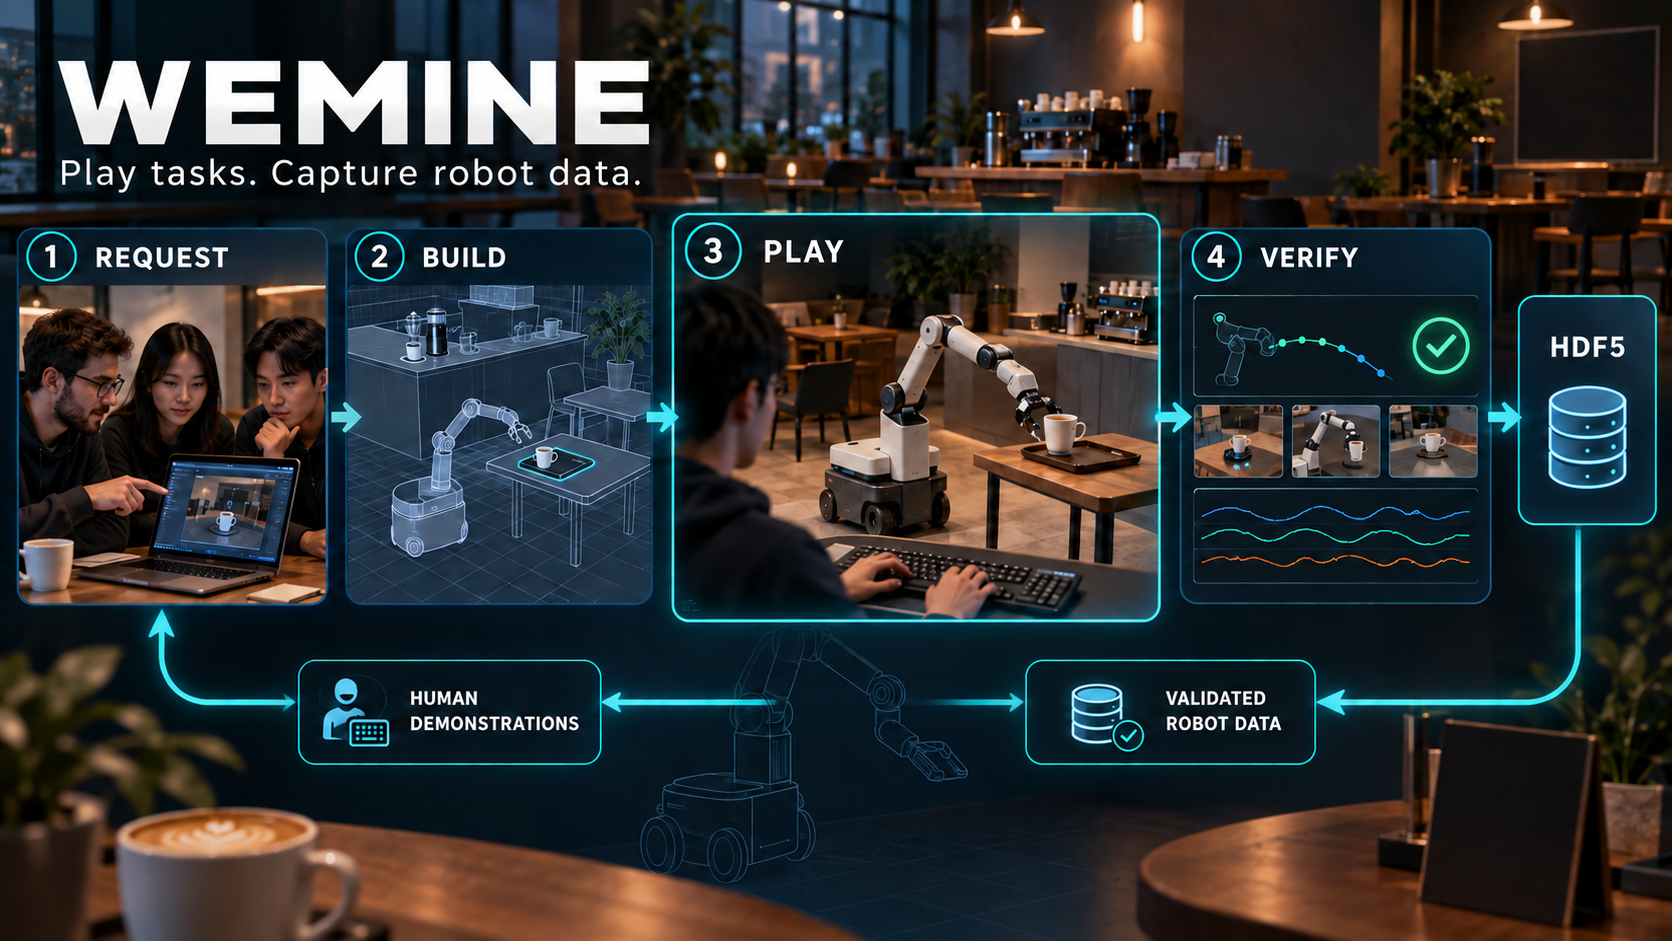
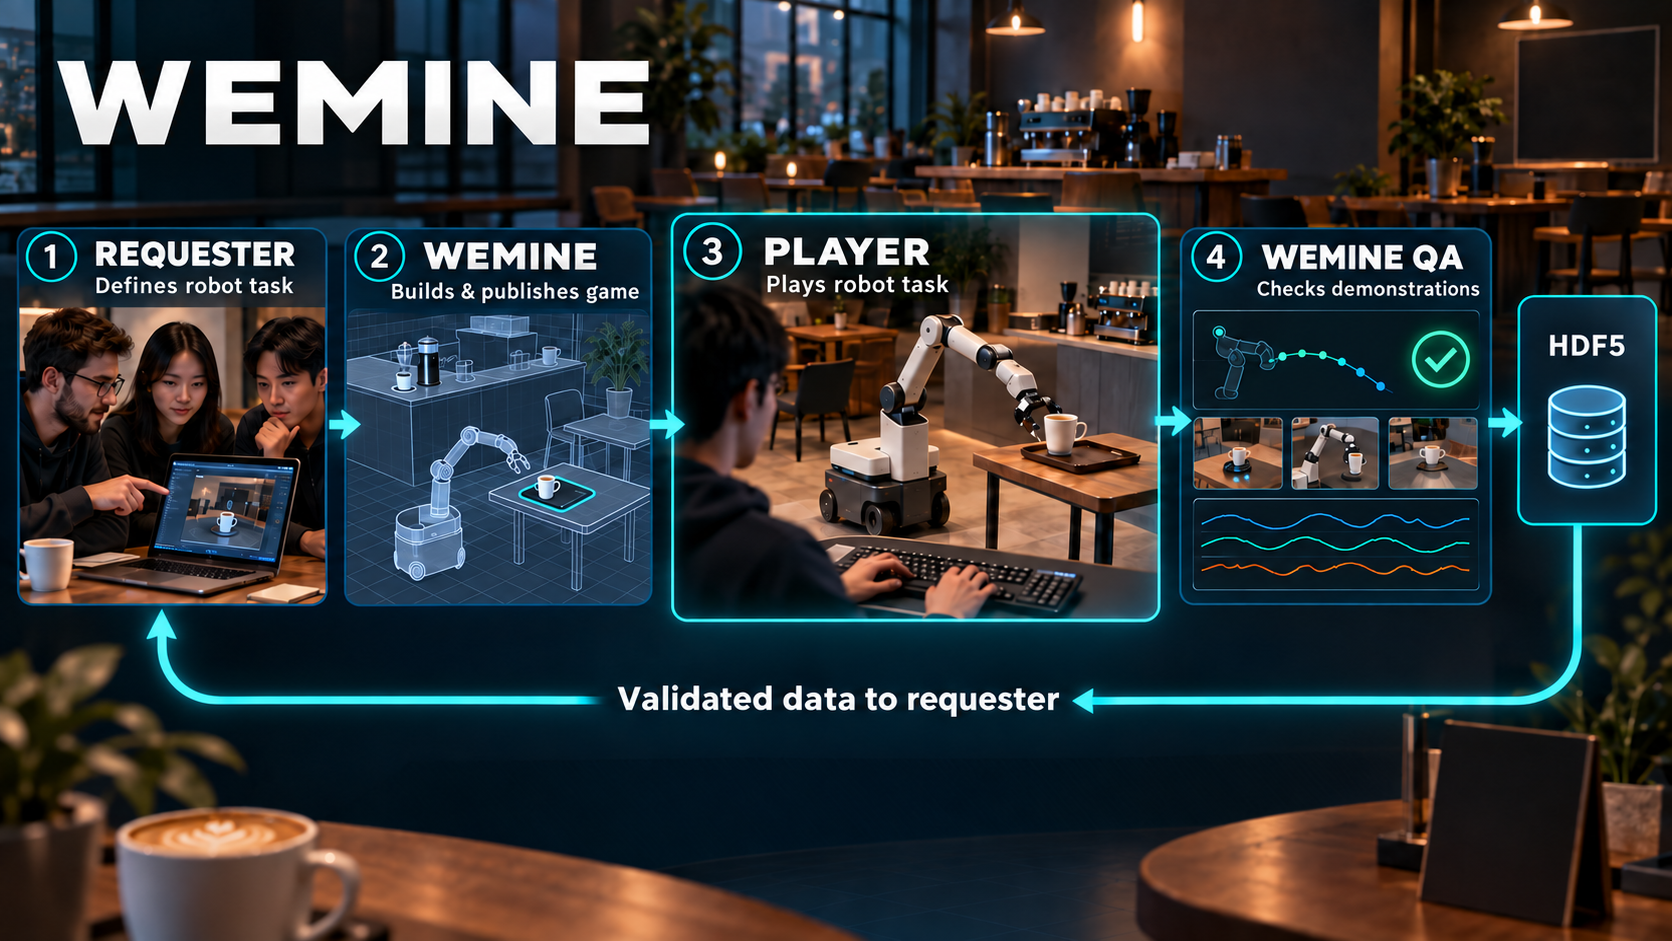
Clarify requester and player roles in WEMINE overview

diff --git a/README.md b/README.md
@@ -1,8 +1,8 @@
-![WEMINE: request a robot task, build a simulated game, play it, verify the demonstration, and deliver robot data](docs/assets/wemine-overview.png)
+![WEMINE connects two roles: a requester defines a robot task, WEMINE builds and publishes the game, a separate player performs it, and validated data returns to the requester](docs/assets/wemine-overview.png)
 
 # WEMINE
 
-**Play a robot task. Capture useful robot data.** WEMINE is a prototype marketplace connecting teams that need robot demonstrations with people who can create them by playing a simulation. This hackathon pilot asks a player to control a mobile robot arm in a café and move a coffee mug onto a tray.
+**Play a robot task. Capture useful robot data.** A requester describes the virtual robot task and data they need. WEMINE builds and publishes the game for a separate player to play, then validates the demonstration and delivers data back to the requester. In this hackathon pilot, the player controls a mobile robot arm in a café to move a coffee mug onto a tray.
 
 > **Start here:** the requester console is at **http://127.0.0.1:8000** and the playable MuJoCo game is at **http://127.0.0.1:8010/?role=player**. They are separate local servers; run both for the full demo.
 
